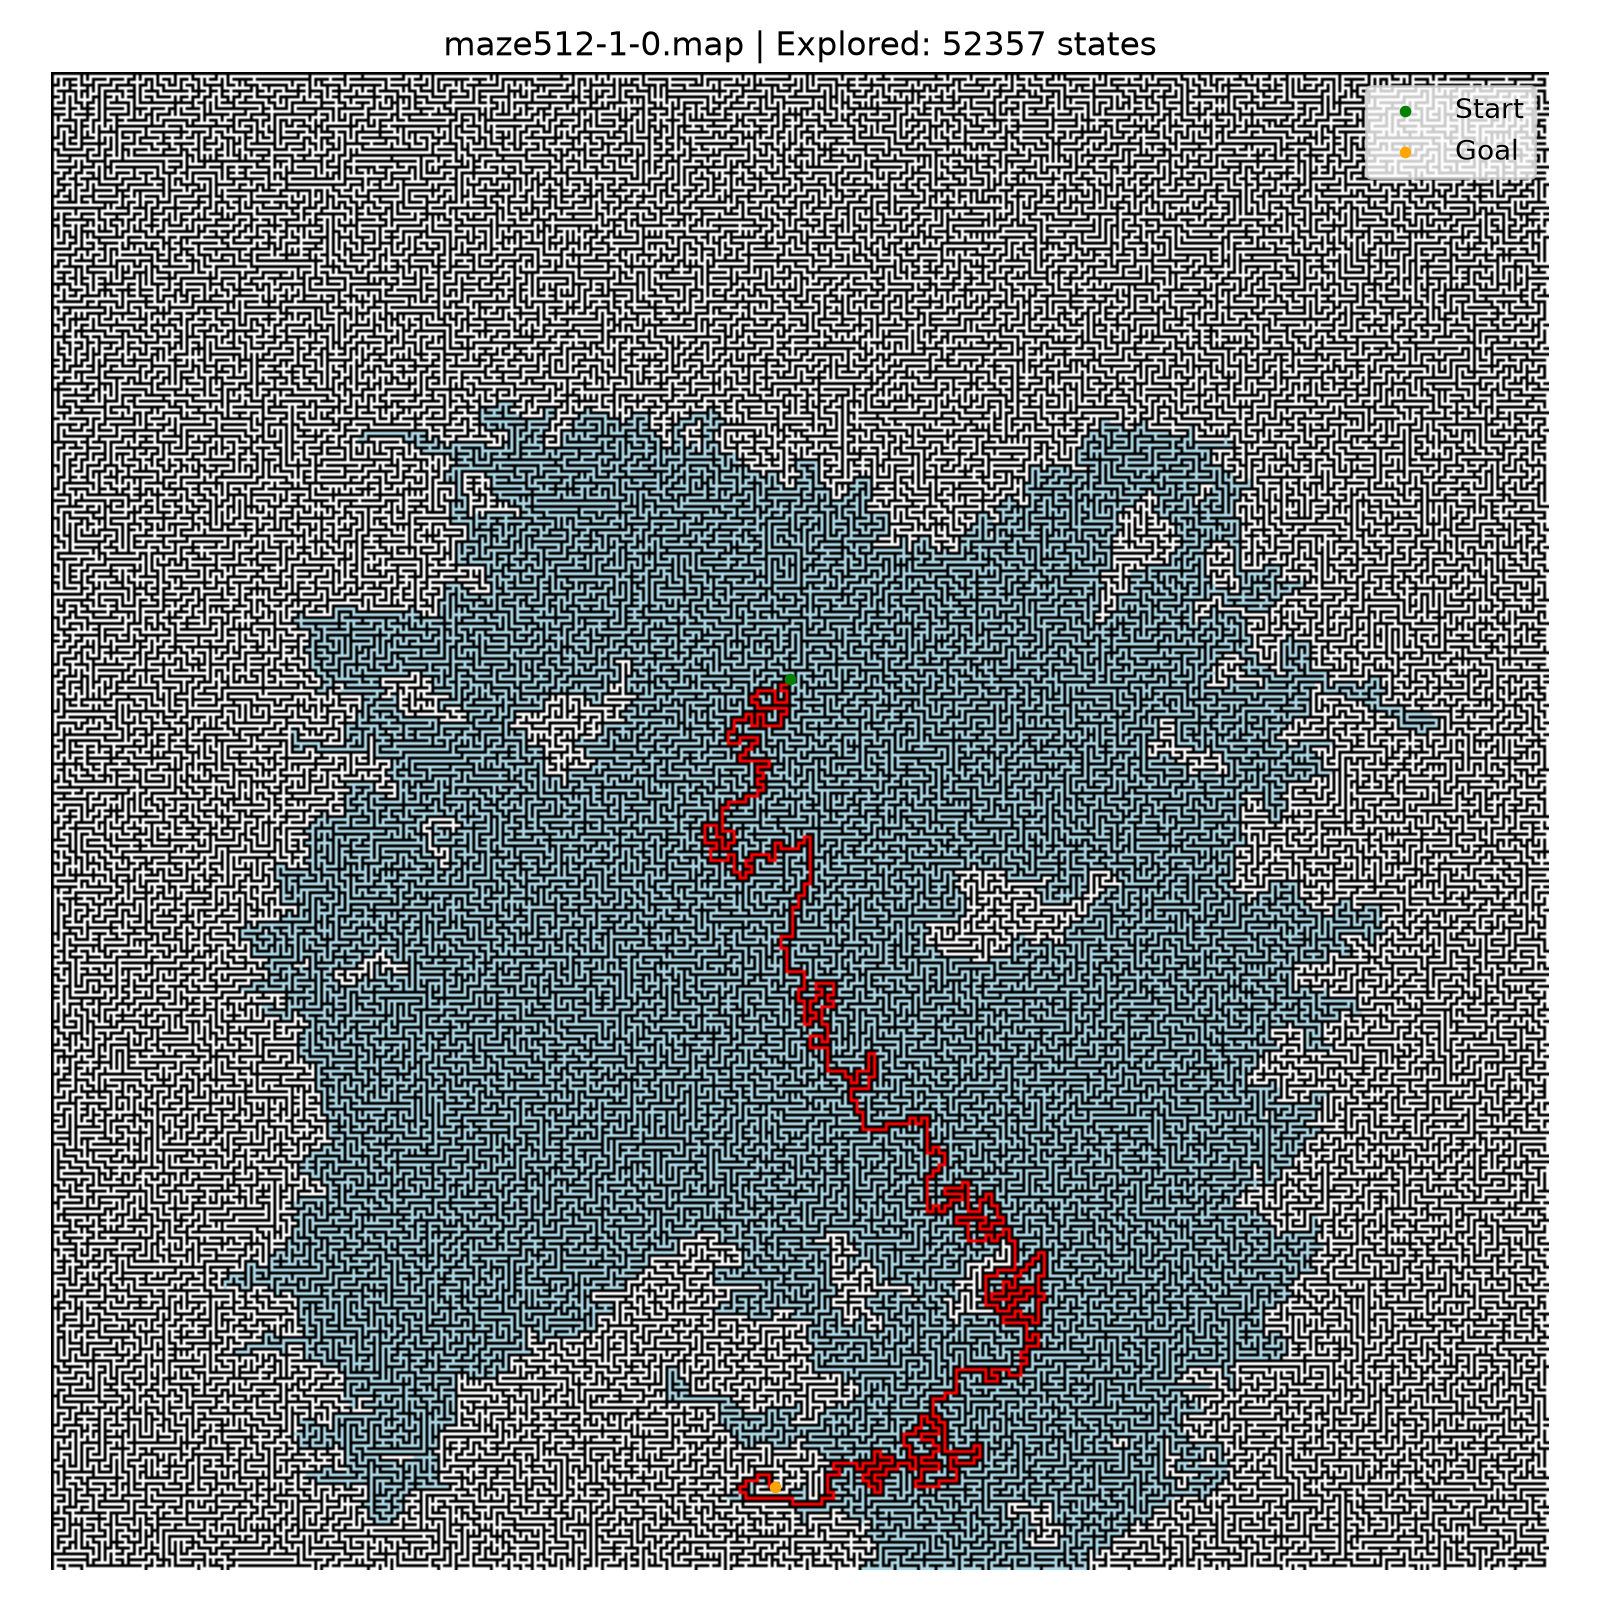
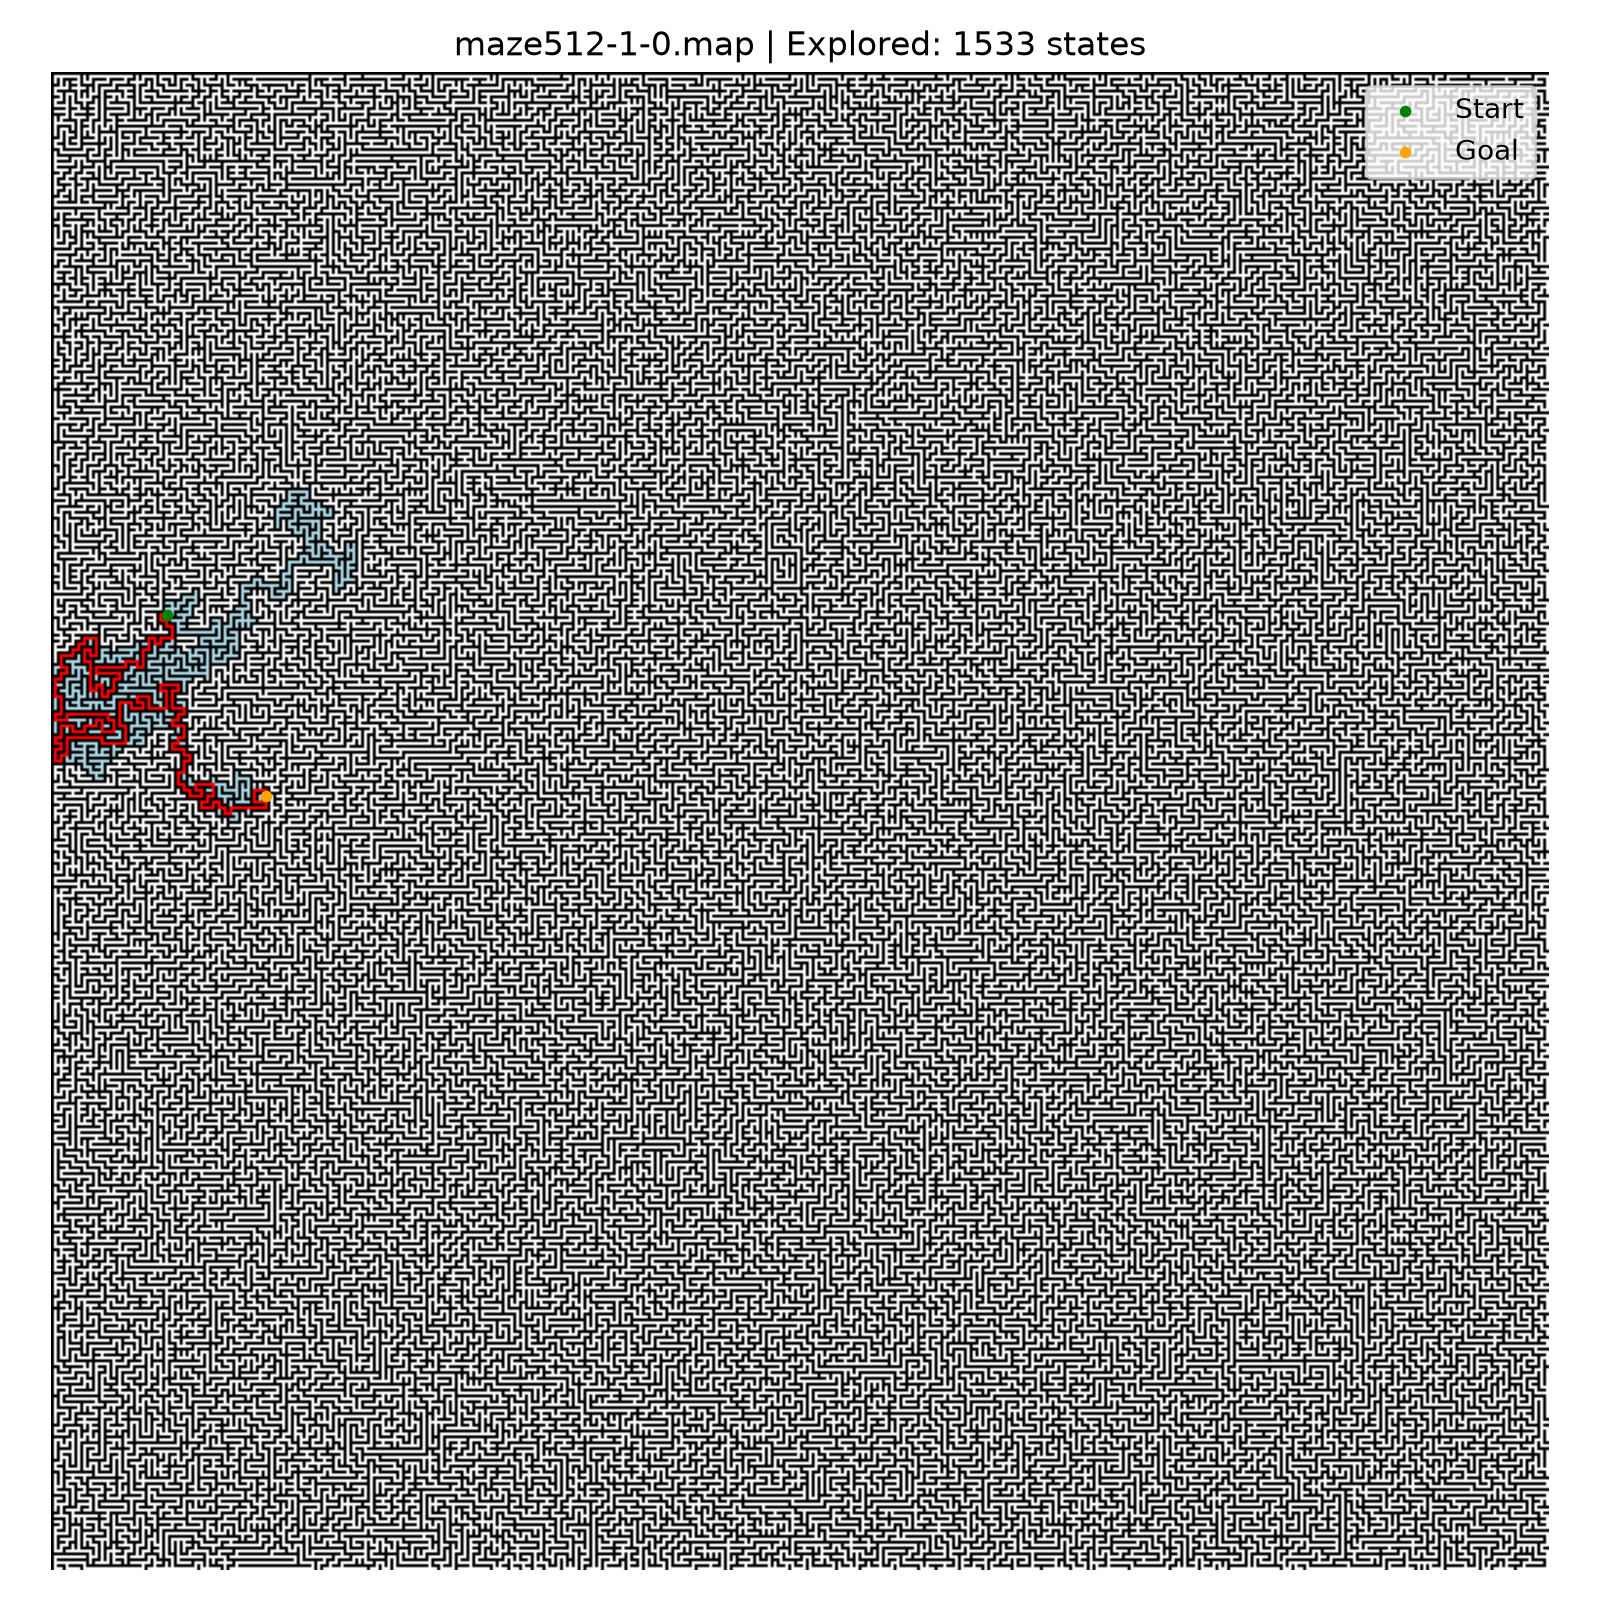
added algo for eval metrics
added algo for eval metrics: time module and systematic sampling

modified astar algo: refactored to match dijkstra

diff --git a/main.py b/main.py
@@ -1,71 +1,105 @@
 import os
 import sys
-import random as r
+import time
 from visuals import visualize_search
 from dataloading import load_instance
+from sampling import sample_scenarios_systematic
 from algorithms.astar import Astar
-from algorithms.dijkstra import Dijkstra  
+from algorithms.dijkstra import Dijkstra
+# from algorithms.gbfs import GBFS
+# from algorithms.bfs import BFS
 
 
 def main():
-    global scenario_sample 
-    global scenario_num
-    global path, cost, states_expanded 
+    corr_widths = {1,2,4,8,16,32}
+    for w in corr_widths:
+        filespec = f"{w}-0"  # modify this to specify the map and scenario file
+        map_file = f"maze-map/maze512-{filespec}.map"
+        scenario_file = f"maze-scen/maze512-{filespec}.map.scen"
 
-    filespec = "1-0"            # modify this to specify the map and scenario file
-    map_file = f"maze-map/maze512-{filespec}.map"                      
-    scenario_file = f"maze-scen/maze512-{filespec}.map.scen"
+        if len(sys.argv) == 3:
+            map_file = sys.argv[1]
+            scenario_file = sys.argv[2]
 
-    if len(sys.argv) == 3:
-        map_file = sys.argv[1]
-        scenario_file = sys.argv[2]
+        print(f"Loading instance from {map_file} and {scenario_file}...")
+        grid, scenarios = load_instance(map_file, scenario_file)
 
-    print(f"Loading instance from {map_file} and {scenario_file}...")
-    grid, scenarios = load_instance(map_file, scenario_file)
+        if not scenarios:
+            print("Error: No valid scenarios found for this map instance!")
+            return
 
-    if not scenarios:
-        print("Error: No valid scenarios found for this map instance!")
-        return
+        # Sample a random scenario from each bucket
+        test_cases = sample_scenarios_systematic(scenarios, target_count=100, seed=67)
+        print(f"Sampled {len(test_cases)} scenarios across buckets.\n")
 
-    #       # select random scenario
-    scenario_num = r.randint(0, len(scenarios) - 1] #scenarios[r.randint(0, len(scenarios) - 1)]
-    scenario_num = scenarios.index(scenario_sample)
-    
-    
-    # run algorithm (Change method as needed)
-    path, cost, states_expanded = Astar(grid, scenario_sample)
-    output_filename = f"{grid.name}_astar.png"
+        os.makedirs("images", exist_ok=True)
 
-    # path, cost, states_expanded = Dijkstra(grid, scenario_sample)
-    # output_filename = f"{grid.name}_dijkstra.png"
+        # Register algorithms to evaluate (uncomment GBFS and BFS once imported)
+        algorithms = {
+            "Dijkstra": Dijkstra,
+            "Astar": Astar,
+            
+            # "GBFS": GBFS,
+            # "BFS": BFS,
+        }
 
-    print_run_metrics(grid, scenarios, states_expanded)
-    os.makedirs("images", exist_ok=True)
+        for algo_name, search_fn in algorithms.items():
+            print(f"=== Running {algo_name} ===")
+            total_ratio = 0.0
+            total_time = 0.0
+
+            for scen_num, scen in test_cases:
+                s_time = time.perf_counter()
+                path, cost, states_expanded = search_fn(grid, scen)
+                e_time = time.perf_counter()
+
+                final_time = e_time - s_time
+                suboptimality = cost / scen.optimal_length
+
+                total_ratio += suboptimality
+                total_time += final_time
+
+                # print(
+                #     f"Scenario #{scen_num:4d} (Bucket {scen.bucket:3d}) | "
+                #     f"Ratio: {suboptimality:.5f} | Time: {final_time * 1000:.3f} ms | "
+                #     f"Expanded: {len(states_expanded) if states_expanded else 0}"
+                # )
+
+                # Optional: print full metrics and save visualization for the last scenario
+                if (scen_num, scen) == test_cases[-1]:
+                    print_run_metrics(grid, scenarios, scen_num, scen, cost, states_expanded, final_time)
+                    output_filename = f"{grid.name}_scen{scen_num}_{algo_name.lower()}.png"
+                    visualize_search(
+                        grid=grid,
+                        scenario=scen,
+                        explored_coords=states_expanded,
+                        path=path,
+                        output_dir="images",
+                        filename=output_filename,
+                    )
+
+            avg_ratio = total_ratio / len(test_cases)
+            avg_time_ms = (total_time / len(test_cases)) * 1000
+            print(f"\n[{algo_name} Summary] Avg Suboptimality: {avg_ratio:.5f} | Avg Time: {avg_time_ms:.3f} ms\n")
 
 
-    visualize_search(                   # call visuals.py to generate solved maze figure
-        grid=grid,
-        scenario=scenario_sample,
-        explored_coords=states_expanded,
-        path=path,
-        output_dir="images",                # generated images will be saved in "images" directory 
-        filename=output_filename
-    )
-
-def print_run_metrics(grid, scenarios, states_expanded=None):
+def print_run_metrics(grid, scenarios, scenario_num, scenario_sample, cost, states_expanded=None, runtime=0.0):
     max_problem_length = max(s.optimal_length for s in scenarios) if scenarios else 0
     total_map_states = grid.num_passable()
 
-    print("\n--- Dataset and Search Metrics ---\n")
-    print(f"Map Name: {grid.name}")                    
-    print(f"Scenario Index: {scenario_num}")
-    print(f"Start State: {scenario_sample.start}")        
-    print(f"Goal State: {scenario_sample.goal}\n")         
+    print("\n--- Dataset and Search Metrics ---")
+    print(f"Map Name: {grid.name}")
+    print(f"Scenario Index: {scenario_num} (Bucket {scenario_sample.bucket})")
+    print(f"Start State: {scenario_sample.start}")
+    print(f"Goal State: {scenario_sample.goal}\n")
     print(f"Algorithm Cost: {cost:.2f}")
     print(f"Optimal Cost (from .scen): {scenario_sample.optimal_length:.2f}\n")
     print(f"Max Problem Length (Optimal): {max_problem_length:.2f}")
+    print(f"Suboptimality Ratio: {(cost / scenario_sample.optimal_length):.5f}:1.0")
     print(f"Total Valid States in Map: {total_map_states}")
     print(f"States Expanded by Search: {len(states_expanded) if states_expanded else 0}")
+    print(f"Run Time: {runtime:.6f} s\n")
+
 
 if __name__ == "__main__":
     main()

diff --git a/algorithms/astar.py b/algorithms/astar.py
@@ -1,71 +1,64 @@
-"""
-    A* Algorithm for Maze Pathfinding
-
-    from Group ABCD W-3L by Karl Margueritte V. Dimatatac
-
-"""
-# import packages
-import math
 import heapq
+import math
+from typing import Dict, List, Set, Tuple
+from dataloading import GridMap, Scenario
 
-# class representing a node in the A* search tree
-class Node:
-    def __init__(self, x, y, g=0, h=0, parent=None):
-        self.x = x
-        self.y = y
-        self.g = g
-        self.h = h
-        self.f = g + h
-        self.parent = parent
-
-    # Required for heapq to compare nodes
-    def __lt__(self, other):
-        return self.f < other.f
+SQRT2_MINUS_1 = math.sqrt(2) - 1.0  # Precompute constant once
 
 
-# heuristic function     = Octile Distance for 8-Way Navigation  h(n) = max(dx, dy) + (sqrt(2) - 1) * min(dx, dy)
-def octile_dist(x, y, goal_x, goal_y):
-    dx = abs(x - goal_x)
-    dy = abs(y - goal_y)
-    return max(dx, dy) + (math.sqrt(2) - 1) * min(dx, dy)
+def Astar(grid: GridMap, scenario: Scenario) -> Tuple[List[Tuple[int, int]], float, Set[Tuple[int, int]]]:
+    start = scenario.start
+    goal = scenario.goal
+    goal_x, goal_y = goal
 
+    dx = abs(start[0] - goal_x)
+    dy = abs(start[1] - goal_y)
+    start_h = (dx if dx > dy else dy) + SQRT2_MINUS_1 * (dy if dx > dy else dx)
 
-# Astar coordiante-based algorithm: uses python heapq
-def Astar(grid, scenario):
-    start_x, start_y = scenario.start
-    goal_x, goal_y = scenario.goal
-    
-    initial_h = octile_dist(start_x, start_y, goal_x, goal_y)
-    start_node = Node(start_x, start_y, g=0, h=initial_h)
-    
-    openList = []
-    heapq.heappush(openList, start_node)
-    g_values = {(start_x, start_y): 0}
-    
-    # counter for the number of states expanded
-    expanded_states = 0
+    # Tuple: (f_cost, h_cost, g_cost, x, y) -> tie-breaks cleanly on lower h_cost
+    pq = [(start_h, start_h, 0.0, start[0], start[1])]
 
-    while len(openList) > 0:
-        currNode = heapq.heappop(openList)
-        expanded_states += 1  # inc when a state is evaluated
+    g_costs: Dict[Tuple[int, int], float] = {start: 0.0}
+    old_set: Dict[Tuple[int, int], Tuple[int, int]] = {}
+    closed_set: Set[Tuple[int, int]] = set()
 
-        # goal check 
-        if (currNode.x, currNode.y) == (goal_x, goal_y):
-            path = []
-            curr = currNode
-            while curr:
-                path.append((curr.x, curr.y))
-                curr = curr.parent
-            path.reverse()
-            # return path, total cost, and the explored coordinates
-            return path, currNode.g, list(g_values.keys())
+    while pq:
+        f_cost, h_cost, curr_g, cx, cy = heapq.heappop(pq)
+        currpos = (cx, cy)
 
-        for nx, ny, step_cost in grid.neighbors(currNode.x, currNode.y):
-            new_g = currNode.g + step_cost
-            if new_g < g_values.get((nx, ny), float('inf')):
-                g_values[(nx, ny)] = new_g
-                h = octile_dist(nx, ny, goal_x, goal_y)
-                nextNode = Node(nx, ny, g=new_g, h=h, parent=currNode)
-                heapq.heappush(openList, nextNode)
+        if currpos == goal:
+            break
 
-    return None, 0, list(g_values.keys())
+        if currpos in closed_set:
+            continue
+        closed_set.add(currpos)
+
+        for nx, ny, step_cost in grid.neighbors(cx, cy):
+            nbpos = (nx, ny)
+            if nbpos in closed_set:
+                continue
+
+            new_g = curr_g + step_cost
+            if new_g < g_costs.get(nbpos, float('inf')):
+                g_costs[nbpos] = new_g
+                old_set[nbpos] = currpos
+
+                # Inline octile distance (avoids Python function-call overhead)
+                dx = abs(nx - goal_x)
+                dy = abs(ny - goal_y)
+                h = (dx if dx > dy else dy) + SQRT2_MINUS_1 * (dy if dx > dy else dx)
+
+                heapq.heappush(pq, (new_g + h, h, new_g, nx, ny))
+
+    if goal not in g_costs:
+        return [], float('inf'), closed_set
+
+    path = []
+    curr = goal
+    while curr != start:
+        path.append(curr)
+        curr = old_set[curr]
+    path.append(start)
+    path.reverse()
+
+    return path, g_costs[goal], closed_set

diff --git a/sampling.py b/sampling.py
@@ -1,0 +1,46 @@
+import random
+from typing import List, Tuple
+
+
+def sample_scenarios_systematic(
+    scenarios: List[Scenario],
+    target_count: int = 100,
+    seed: int = 67,
+) -> List[Tuple[int, Scenario]]:
+    """Systematically samples `target_count` valid scenarios across the entire .scen file
+
+    using step size k = round(total_valid / target_count).
+
+    Returns a list of (scenario_index, Scenario) tuples sorted by scenario index.
+    """
+    # 1. Filter out trivial start == goal cases while keeping original 0-based indices
+    valid_scenarios: List[Tuple[int, Scenario]] = [
+        (idx, scen) for idx, scen in enumerate(scenarios) if scen.optimal_length > 0
+    ]
+
+    total_valid = len(valid_scenarios)
+    if total_valid <= target_count:
+        return valid_scenarios
+
+    # 2. Compute rounded step size k = round(N / 200)
+    k = max(1, round(total_valid / target_count))
+
+    # 3. Pick a random starting offset within the first interval [0, k - 1]
+    rng = random.Random(seed)
+    start_offset = rng.randint(0, k - 1)
+
+    # 4. Step through the dataset every k-th scenario
+    sampled = [
+        valid_scenarios[i]
+        for i in range(start_offset, total_valid, k)
+    ][:target_count]
+
+    # 5. If rounding k upward left fewer than 200 items, top up evenly from remaining indices
+    if len(sampled) < target_count:
+        sampled_indices = {idx for idx, _ in sampled}
+        remaining = [item for item in valid_scenarios if item[0] not in sampled_indices]
+        needed = target_count - len(sampled)
+        sampled.extend(rng.sample(remaining, needed))
+        sampled.sort(key=lambda item: item[0])
+
+    return sampled
